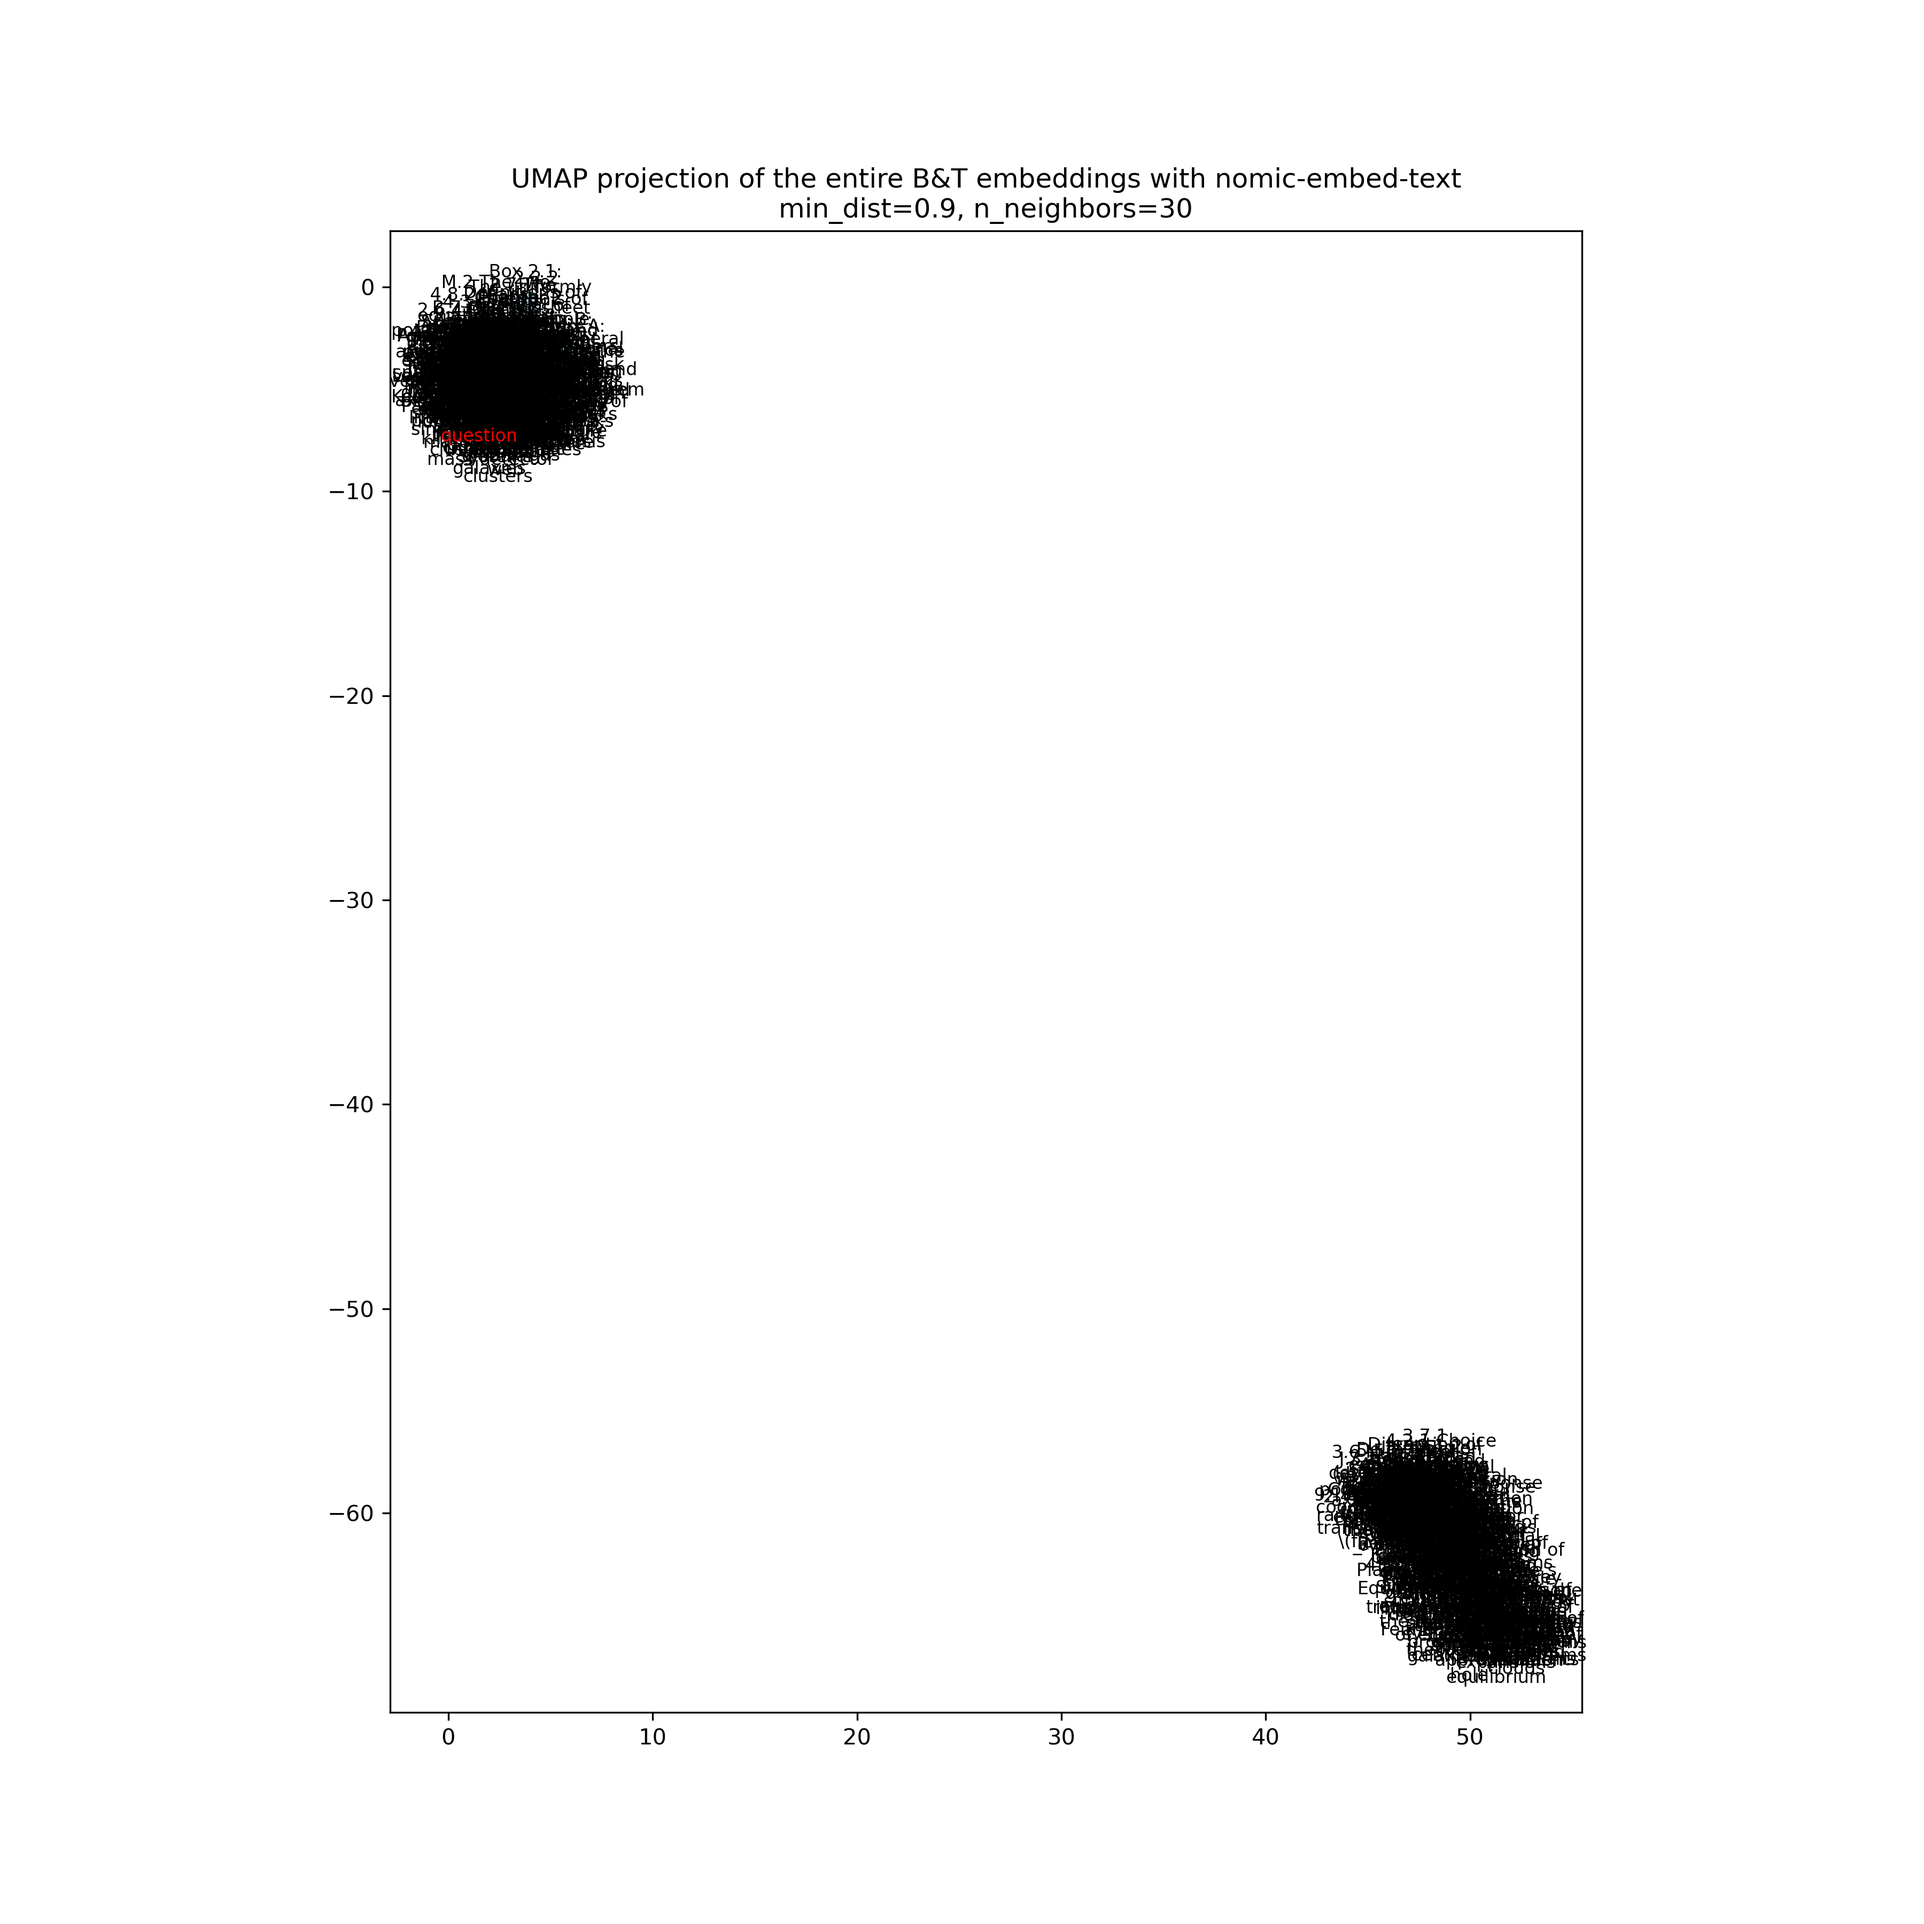
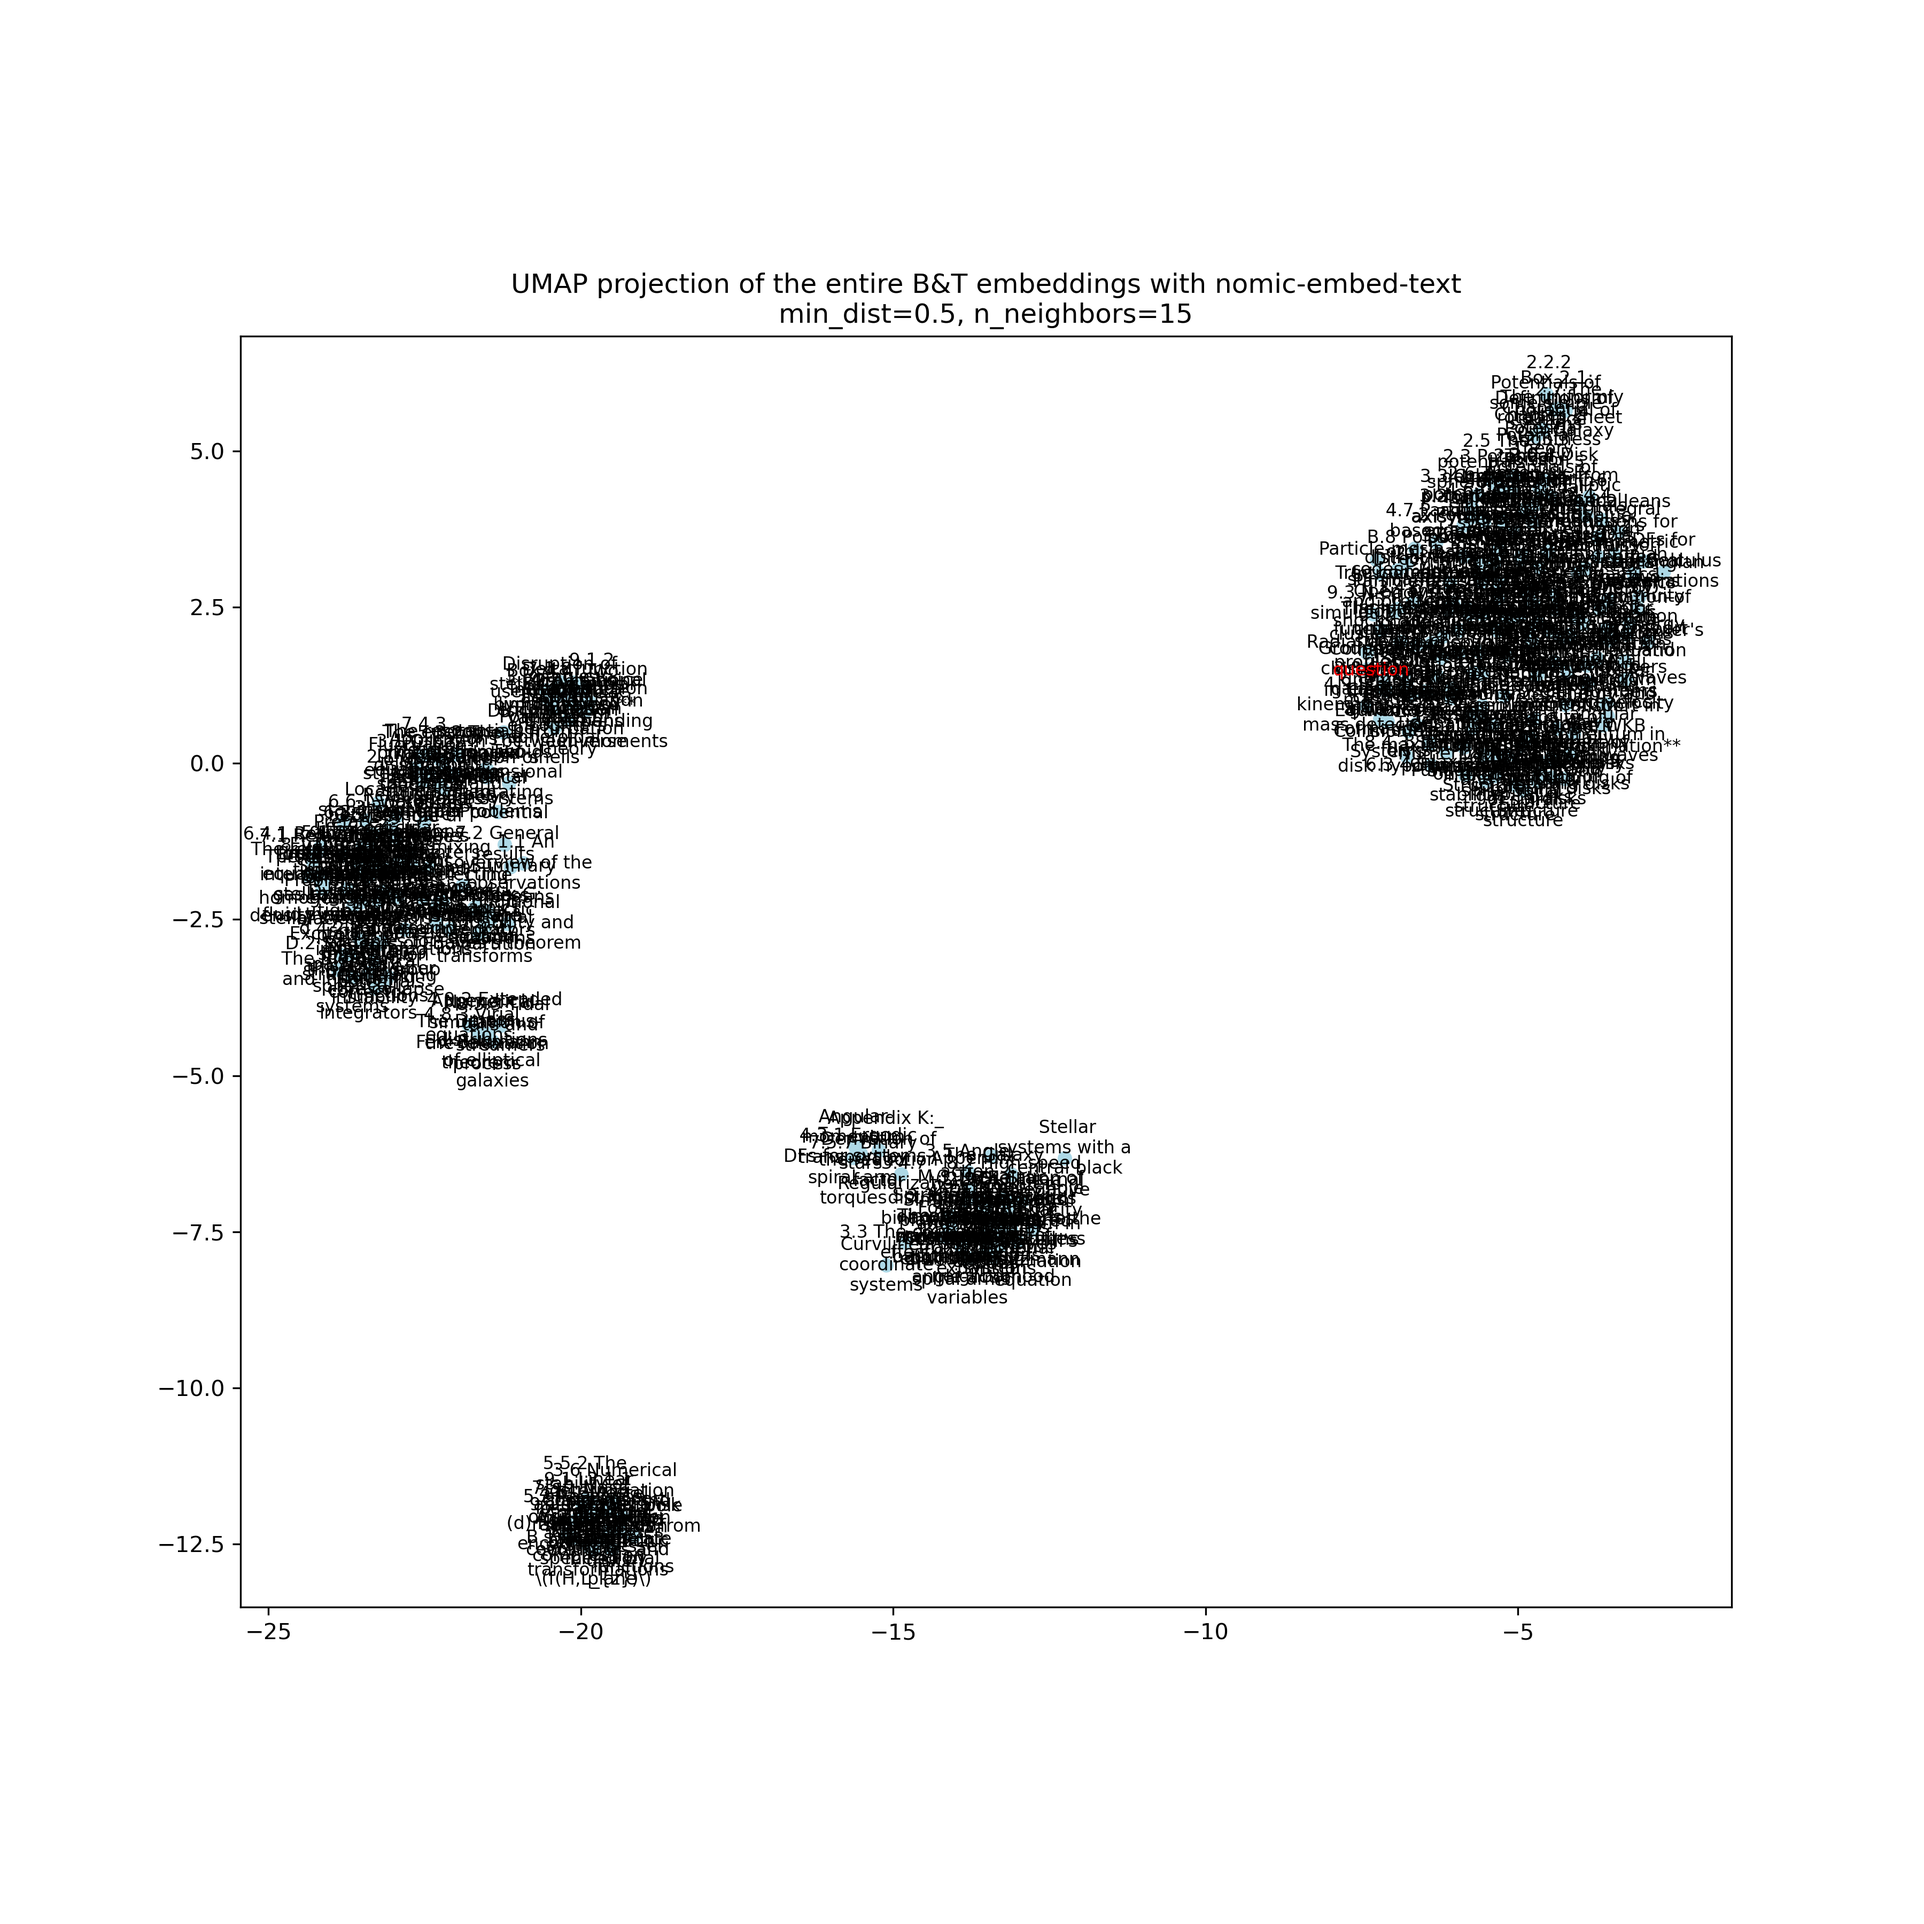
change params

diff --git a/work/plots/interactive_scatter_all_question.html b/work/plots/interactive_scatter_all_question.html
@@ -18,10 +18,10 @@
     </script>
   </head>
   <body>
-    <div id="ecb36bfe-2364-4309-b3a4-1749af220965" data-root-id="p1007" style="display: contents;"></div>
+    <div id="b4efadfd-11ac-49a2-96bd-9e3304cd7de4" data-root-id="p1007" style="display: contents;"></div>
   
-    <script type="application/json" id="d36aed06-87d0-4c7e-a1ca-8006f69365c5">
[1 lines of base64/hex data omitted]
+    <script type="application/json" id="d5af3513-06d9-4e9b-8eb4-ee7ea3f3e805">
[1 lines of base64/hex data omitted]
     </script>
     <script type="text/javascript">
       (function() {
@@ -29,8 +29,8 @@
           Bokeh.safely(function() {
             (function(root) {
               function embed_document(root) {
-              const docs_json = document.getElementById('d36aed06-87d0-4c7e-a1ca-8006f69365c5').textContent;
-              const render_items = [{"docid":"fd7540a6-4c61-4cb5-bccc-fd4c603a513f","roots":{"p1007":"ecb36bfe-2364-4309-b3a4-1749af220965"},"root_ids":["p1007"]}];
+              const docs_json = document.getElementById('d5af3513-06d9-4e9b-8eb4-ee7ea3f3e805').textContent;
+              const render_items = [{"docid":"73dadabb-86cf-4866-b1e7-0879f21f21fa","roots":{"p1007":"b4efadfd-11ac-49a2-96bd-9e3304cd7de4"},"root_ids":["p1007"]}];
               root.Bokeh.embed.embed_items(docs_json, render_items);
               }
               if (root.Bokeh !== undefined) {

diff --git a/visualise_embedding.py b/visualise_embedding.py
@@ -52,8 +52,8 @@ n_neighbours = args.n_neighbours
 
 print(f"Using min_dist={min_dist} and n_neighbours={n_neighbours} for UMAP")
 
-min_dist = 0.9
-n_neighbours = 30
+#min_dist = 0.9
+#n_neighbours = 30
 
 caches_dir = '/home/hgolawska/llm_summer_project/caches'
 filename = './work/pdf_to_txt/output/cleaned/Binney_and_Tremaine.mmd'
